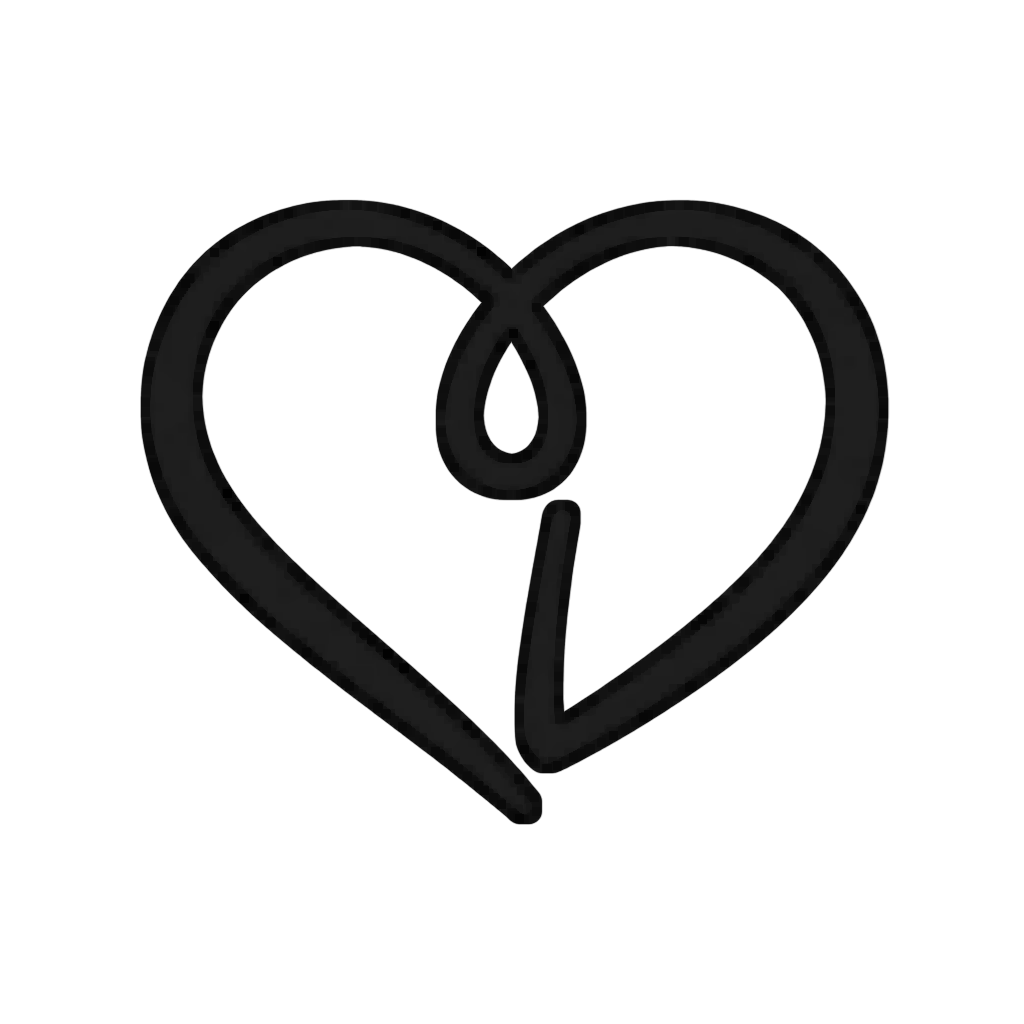
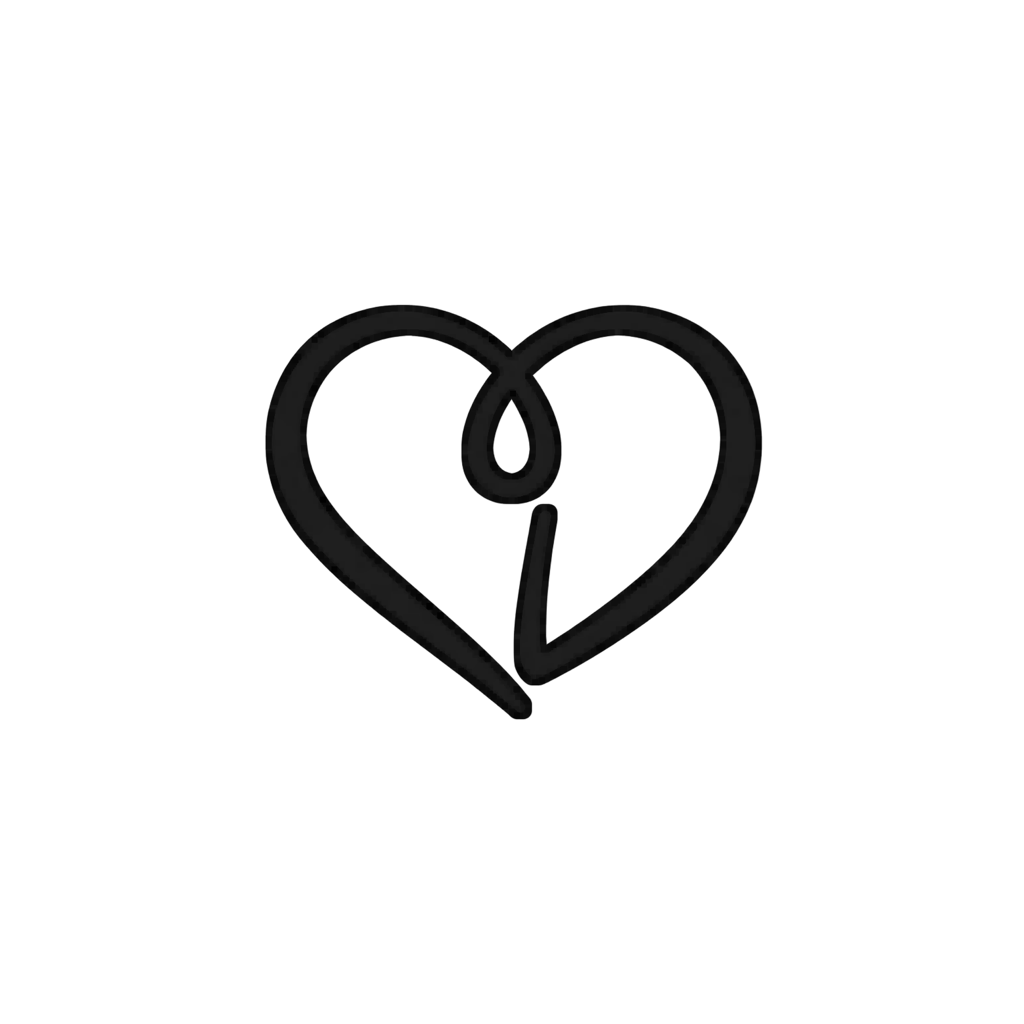
feat: Android UX improvements and UI adjustments
- Remove unnecessary audio permissions from Android DM capture
- Add native share sheet for Android using expo-sharing
- Adjust BlurView tint and overlay for iOS/Android consistency
- Resize adaptive icon for proper Play Store safe zone
- Add Android-specific onboarding button padding
- Simplify widget plugin configuration

Changed region(s): [[0.125, 0.1875, 0.875, 0.8125]]

diff --git a/plugins/withDaydateWidget.js b/plugins/withDaydateWidget.js
@@ -1,12 +1,11 @@
 /**
  * Expo Config Plugin for Daydate Widget
  *
- * This plugin configures the iOS widget extension for the Daydate app.
- * It copies widget source files and configures the Xcode project.
+ * This plugin copies widget source files and configures App Groups.
+ * The widget target must be added manually in Xcode.
  */
 
 const {
-  withXcodeProject,
   withEntitlementsPlist,
   withDangerousMod,
 } = require('@expo/config-plugins');
@@ -15,7 +14,6 @@ const fs = require('fs');
 
 // Widget configuration
 const WIDGET_NAME = 'DaydateWidget';
-const WIDGET_BUNDLE_ID = 'com.daydate.app.widget';
 const APP_GROUP_ID = 'group.com.daydate.app';
 
 /**
@@ -64,7 +62,7 @@ function withWidgetSourceFiles(config) {
       const widgetDest = path.join(iosPath, WIDGET_NAME);
 
       if (copyDirSync(widgetSrc, widgetDest)) {
-        console.log(`[withDaydateWidget] Copied widget files to ${widgetDest}`);
+        console.log(`[withDaydateWidget] ✅ Copied widget files to ${widgetDest}`);
       }
 
       // Copy WidgetDataModule files to main app folder
@@ -77,9 +75,12 @@ function withWidgetSourceFiles(config) {
 
         if (fs.existsSync(srcFile)) {
           fs.copyFileSync(srcFile, destFile);
-          console.log(`[withDaydateWidget] Copied ${file} to ${mainAppPath}`);
+          console.log(`[withDaydateWidget] ✅ Copied ${file} to ${mainAppPath}`);
         }
       }
+
+      console.log(`[withDaydateWidget] ⚠  Widget target must be added manually in Xcode`);
+      console.log(`[withDaydateWidget] ⚠  See: ios/${WIDGET_NAME}/ folder`);
 
       return modConfig;
     },
@@ -92,134 +93,7 @@ function withWidgetSourceFiles(config) {
 function withAppGroupsEntitlement(config) {
   return withEntitlementsPlist(config, (modConfig) => {
     modConfig.modResults['com.apple.security.application-groups'] = [APP_GROUP_ID];
-    return modConfig;
-  });
-}
-
-/**
- * Add widget extension target to Xcode project
- */
-function withWidgetExtension(config) {
-  return withXcodeProject(config, async (modConfig) => {
-    const xcodeProject = modConfig.modResults;
-    const projectRoot = modConfig.modRequest.projectRoot;
-    const widgetPath = path.join(projectRoot, 'ios', WIDGET_NAME);
-    const appName = modConfig.modRequest.projectName || 'Daydate';
-    const mainAppPath = path.join(projectRoot, 'ios', appName);
-
-    // Check if widget files exist
-    if (!fs.existsSync(widgetPath)) {
-      console.warn(`[withDaydateWidget] Widget folder not found at ${widgetPath}`);
-      return modConfig;
-    }
-
-    // Get the main app target
-    const mainTarget = xcodeProject.getFirstTarget();
-    if (!mainTarget) {
-      console.warn('[withDaydateWidget] Could not find main app target');
-      return modConfig;
-    }
-
-    // Add WidgetDataModule files to main app target
-    const nativeModuleFiles = ['WidgetDataModule.swift', 'WidgetDataModule.m'];
-    for (const file of nativeModuleFiles) {
-      const filePath = path.join(mainAppPath, file);
-      if (fs.existsSync(filePath)) {
-        // Check if file already in project
-        const fileRef = xcodeProject.getFirstProject().firstProject.mainGroup;
-        xcodeProject.addSourceFile(file, { target: mainTarget.uuid }, appName);
-        console.log(`[withDaydateWidget] Added ${file} to main app target`);
-      }
-    }
-
-    // Check if widget target already exists
-    const existingTarget = xcodeProject.pbxTargetByName(WIDGET_NAME);
-    if (existingTarget) {
-      console.log('[withDaydateWidget] Widget target already exists');
-      return modConfig;
-    }
-
-    // Add widget extension target
-    const widgetTarget = xcodeProject.addTarget(
-      WIDGET_NAME,
-      'app_extension',
-      WIDGET_NAME,
-      WIDGET_BUNDLE_ID
-    );
-
-    if (!widgetTarget) {
-      console.warn('[withDaydateWidget] Failed to add widget target');
-      return modConfig;
-    }
-
-    // Add widget source files to the target
-    const widgetFiles = [
-      'DaydateWidget.swift',
-      'DaydateWidgetBundle.swift',
-    ];
-
-    const widgetGroup = xcodeProject.addPbxGroup(
-      widgetFiles,
-      WIDGET_NAME,
-      WIDGET_NAME
-    );
-
-    // Add widget to main group
-    const mainGroup = xcodeProject.getFirstProject().firstProject.mainGroup;
-    xcodeProject.addToPbxGroup(widgetGroup.uuid, mainGroup);
-
-    // Add files to build phase
-    widgetFiles.forEach((file) => {
-      const filePath = path.join(WIDGET_NAME, file);
-      xcodeProject.addSourceFile(filePath, null, widgetTarget.uuid);
-    });
-
-    // Set build settings for widget
-    const buildSettings = {
-      ASSETCATALOG_COMPILER_WIDGET_BACKGROUND_COLOR_NAME: 'WidgetBackground',
-      CODE_SIGN_ENTITLEMENTS: `${WIDGET_NAME}/${WIDGET_NAME}.entitlements`,
-      CODE_SIGN_STYLE: 'Automatic',
-      CURRENT_PROJECT_VERSION: '1',
-      GENERATE_INFOPLIST_FILE: 'YES',
-      INFOPLIST_FILE: `${WIDGET_NAME}/Info.plist`,
-      INFOPLIST_KEY_CFBundleDisplayName: 'Daydate Widget',
-      INFOPLIST_KEY_NSHumanReadableCopyright: '',
-      LD_RUNPATH_SEARCH_PATHS: [
-        '$(inherited)',
-        '@executable_path/Frameworks',
-        '@executable_path/../../Frameworks',
-      ],
-      MARKETING_VERSION: '1.0',
-      PRODUCT_BUNDLE_IDENTIFIER: WIDGET_BUNDLE_ID,
-      PRODUCT_NAME: '$(TARGET_NAME)',
-      SKIP_INSTALL: 'YES',
-      SWIFT_EMIT_LOC_STRINGS: 'YES',
-      SWIFT_VERSION: '5.0',
-      TARGETED_DEVICE_FAMILY: '1,2',
-    };
-
-    // Apply build settings to both Debug and Release
-    const configurations = xcodeProject.pbxXCBuildConfigurationSection();
-    Object.keys(configurations).forEach((key) => {
-      const config = configurations[key];
-      if (config.buildSettings && config.name) {
-        const targetName = config.buildSettings.PRODUCT_NAME;
-        if (targetName === '$(TARGET_NAME)' || targetName === WIDGET_NAME) {
-          Object.assign(config.buildSettings, buildSettings);
-        }
-      }
-    });
-
-    // Add widget to "Embed App Extensions" build phase
-    xcodeProject.addBuildPhase(
-      [],
-      'PBXCopyFilesBuildPhase',
-      'Embed App Extensions',
-      mainTarget.uuid,
-      'app_extension'
-    );
-
-    console.log('[withDaydateWidget] Widget extension configured successfully');
+    console.log(`[withDaydateWidget] ✅ Added App Groups entitlement: ${APP_GROUP_ID}`);
     return modConfig;
   });
 }
@@ -228,14 +102,11 @@ function withWidgetExtension(config) {
  * Main plugin function
  */
 function withDaydateWidget(config) {
-  // Step 1: Copy source files (runs first during prebuild)
+  // Step 1: Copy source files
   config = withWidgetSourceFiles(config);
 
-  // Step 2: Add App Groups entitlement
+  // Step 2: Add App Groups entitlement to main app
   config = withAppGroupsEntitlement(config);
-
-  // Step 3: Add widget extension to Xcode project
-  config = withWidgetExtension(config);
 
   return config;
 }

diff --git a/app/(tabs)/index.tsx b/app/(tabs)/index.tsx
@@ -477,7 +477,8 @@ export default function HomeScreen() {
 
       // Calculate crop area from top line to bottom line (full screen width, convert points to pixels)
       // Add offset to move capture area down slightly (matching content position adjustment)
-      const captureOffsetY = rh(15); // Responsive offset to shift capture down
+      // Android needs more offset to move capture area further down
+      const captureOffsetY = Platform.OS === 'android' ? rh(50) : rh(15); // Responsive offset to shift capture down
       const cropX = 0;
       const cropY = Math.max(0, Math.round((topMeasurement.y - topPadding + captureOffsetY) * pixelScale));
       const cropWidth = Math.round(SCREEN_WIDTH * pixelScale);
@@ -527,27 +528,36 @@ export default function HomeScreen() {
       setCapturedContentSize(null);
 
       if (Platform.OS === 'ios') {
-        // iOS: Share directly using file URI (no need to save to gallery first)
+        // iOS: Share directly using file URI
         await Share.share({
           url: brandedImage,
         });
       } else {
-        // Android: Need to save to gallery first, then user can share from there
-        // Request permission first
-        const { status } = await MediaLibrary.requestPermissionsAsync();
-        if (status !== 'granted') {
-          Alert.alert(t('common.error'), t('home.share.permissionDenied'));
-          return;
+        // Android: Use expo-sharing to show native share sheet (dynamic import to avoid iOS crash)
+        try {
+          const Sharing = await import('expo-sharing');
+          const isAvailable = await Sharing.isAvailableAsync();
+          if (isAvailable) {
+            await Sharing.shareAsync(brandedImage, {
+              mimeType: 'image/png',
+              dialogTitle: t('home.share.dialogTitle'),
+            });
+          } else {
+            throw new Error('Sharing not available');
+          }
+        } catch {
+          // Fallback: Save to gallery if sharing is not available
+          const { status } = await MediaLibrary.requestPermissionsAsync();
+          if (status !== 'granted') {
+            Alert.alert(t('common.error'), t('home.share.permissionDenied'));
+            return;
+          }
+          await MediaLibrary.createAssetAsync(brandedImage);
+          Alert.alert(
+            t('home.share.savedTitle'),
+            t('home.share.savedAndShareFromGallery')
+          );
         }
-
-        // Save to gallery
-        await MediaLibrary.createAssetAsync(brandedImage);
-
-        // Notify user that image is saved and they can share from gallery
-        Alert.alert(
-          t('home.share.savedTitle'),
-          t('home.share.savedAndShareFromGallery')
-        );
       }
     } catch (error) {
       console.error('Error sharing:', error);

diff --git a/app/(auth)/onboarding.tsx b/app/(auth)/onboarding.tsx
@@ -87,6 +87,10 @@ const HEIGHT_SCALE = Math.min(height / BASE_HEIGHT, 1);
 // Responsive size function - scales any size based on screen height
 const rh = (size: number): number => Math.round(size * HEIGHT_SCALE);
 
+// Android-specific extra bottom padding for onboarding buttons
+// Adds more space at the bottom on Android devices to move buttons further down
+const ANDROID_ONBOARDING_EXTRA_PADDING = Platform.OS === 'android' ? rh(24) : 0;
+
 // UUID v4 generator function
 const generateUUID = (): string => {
   return 'xxxxxxxx-xxxx-4xxx-yxxx-xxxxxxxxxxxx'.replace(/[xy]/g, (c) => {
@@ -4360,7 +4364,7 @@ function PreferencesIntroStep({
       </View>
 
       {/* Bottom button - consistent position with other steps */}
-      <View style={{ width: '100%', paddingBottom: rh(SPACING.lg) + ANDROID_BOTTOM_PADDING }}>
+      <View style={{ width: '100%', paddingBottom: rh(SPACING.lg) + ANDROID_BOTTOM_PADDING + ANDROID_ONBOARDING_EXTRA_PADDING }}>
         <Pressable style={[styles.primaryButton, styles.primaryButtonFullWidth]} onPress={onNext}>
           <Text style={styles.primaryButtonText}>{t('onboarding.preferencesIntro.startAnalysis')}</Text>
         </Pressable>
@@ -4687,7 +4691,7 @@ function CompleteStep({
         </Text>
       </View>
 
-      <View style={{ width: '100%', paddingBottom: rh(SPACING.lg) + ANDROID_BOTTOM_PADDING }}>
+      <View style={{ width: '100%', paddingBottom: rh(SPACING.lg) + ANDROID_BOTTOM_PADDING + ANDROID_ONBOARDING_EXTRA_PADDING }}>
         <Pressable style={[styles.primaryButton, styles.primaryButtonFullWidth]} onPress={onComplete}>
           <Text style={styles.primaryButtonText}>{t('onboarding.start')}</Text>
         </Pressable>
@@ -4839,7 +4843,7 @@ const styles = StyleSheet.create({
   },
   welcomeBottomContainer: {
     width: '100%',
-    paddingBottom: scale(SPACING.lg) + ANDROID_BOTTOM_PADDING,
+    paddingBottom: scale(SPACING.lg) + ANDROID_BOTTOM_PADDING + ANDROID_ONBOARDING_EXTRA_PADDING,
   },
   welcomeSubtitle: {
     fontFamily: TYPOGRAPHY.fontFamily.display,
@@ -4874,7 +4878,7 @@ const styles = StyleSheet.create({
     flex: 1,
     alignItems: 'center',
     justifyContent: 'space-between',
-    paddingBottom: scale(SPACING.lg) + ANDROID_BOTTOM_PADDING,
+    paddingBottom: scale(SPACING.lg) + ANDROID_BOTTOM_PADDING + ANDROID_ONBOARDING_EXTRA_PADDING,
   },
   welcomeContent: {
     flex: 1,
@@ -4981,7 +4985,7 @@ const styles = StyleSheet.create({
     flexDirection: 'row',
     gap: rh(12),
     width: '100%',
-    paddingBottom: ANDROID_BOTTOM_PADDING,
+    paddingBottom: ANDROID_BOTTOM_PADDING + ANDROID_ONBOARDING_EXTRA_PADDING,
   },
   buttonFlex: {
     flex: 1,

diff --git a/app/(tabs)/mission.tsx b/app/(tabs)/mission.tsx
@@ -1487,7 +1487,7 @@ export default function MissionScreen() {
         />
         <BlurView experimentalBlurMethod="dimezisBlurView" intensity={Platform.OS === 'ios' ? 90 : 50} tint={Platform.OS === 'ios' ? 'light' : 'default'} style={StyleSheet.absoluteFill} />
       </View>
-      <View style={[styles.overlay, { backgroundColor: Platform.OS === 'ios' ? 'rgba(0, 0, 0, 0.2)' : 'rgba(0, 0, 0, 0.15)' }]} />
+      <View style={[styles.overlay, { backgroundColor: Platform.OS === 'ios' ? 'rgba(0, 0, 0, 0.3)' : 'rgba(0, 0, 0, 0.15)' }]} />
 
       {/* BookmarkedMissionsPage Overlay */}
       {showBookmarkedMissions && (

diff --git a/app/(tabs)/calendar.tsx b/app/(tabs)/calendar.tsx
@@ -1089,7 +1089,7 @@ export default function CalendarScreen() {
         />
         <BlurView experimentalBlurMethod="dimezisBlurView" intensity={Platform.OS === 'ios' ? 90 : 50} tint={Platform.OS === 'ios' ? 'light' : 'default'} style={StyleSheet.absoluteFill} />
       </View>
-      <View style={[styles.overlay, { backgroundColor: Platform.OS === 'ios' ? 'rgba(0, 0, 0, 0.2)' : 'rgba(0, 0, 0, 0.15)' }]} />
+      <View style={[styles.overlay, { backgroundColor: Platform.OS === 'ios' ? 'rgba(0, 0, 0, 0.3)' : 'rgba(0, 0, 0, 0.15)' }]} />
 
       {/* Header - Fixed at top */}
       <View style={styles.header}>

diff --git a/app/(tabs)/more.tsx b/app/(tabs)/more.tsx
@@ -129,7 +129,7 @@ export default function MoreScreen() {
         />
         <BlurView experimentalBlurMethod="dimezisBlurView" intensity={Platform.OS === 'ios' ? 90 : 50} tint={Platform.OS === 'ios' ? 'light' : 'default'} style={StyleSheet.absoluteFill} />
       </View>
-      <View style={[styles.overlay, { backgroundColor: Platform.OS === 'ios' ? 'rgba(0, 0, 0, 0.2)' : 'rgba(0, 0, 0, 0.15)' }]} />
+      <View style={[styles.overlay, { backgroundColor: Platform.OS === 'ios' ? 'rgba(0, 0, 0, 0.3)' : 'rgba(0, 0, 0, 0.15)' }]} />
 
       {/* Header - Fixed at top */}
       <View style={styles.header}>

diff --git a/app/(tabs)/memories.tsx b/app/(tabs)/memories.tsx
@@ -1281,7 +1281,7 @@ export default function MemoriesScreen() {
         />
         <BlurView experimentalBlurMethod="dimezisBlurView" intensity={Platform.OS === 'ios' ? 90 : 50} tint={Platform.OS === 'ios' ? 'light' : 'default'} style={StyleSheet.absoluteFill} />
       </View>
-      <View style={[styles.overlay, { backgroundColor: Platform.OS === 'ios' ? 'rgba(0, 0, 0, 0.2)' : 'rgba(0, 0, 0, 0.15)' }]} />
+      <View style={[styles.overlay, { backgroundColor: Platform.OS === 'ios' ? 'rgba(0, 0, 0, 0.3)' : 'rgba(0, 0, 0, 0.15)' }]} />
 
       {/* Header */}
       <View style={styles.header}>
